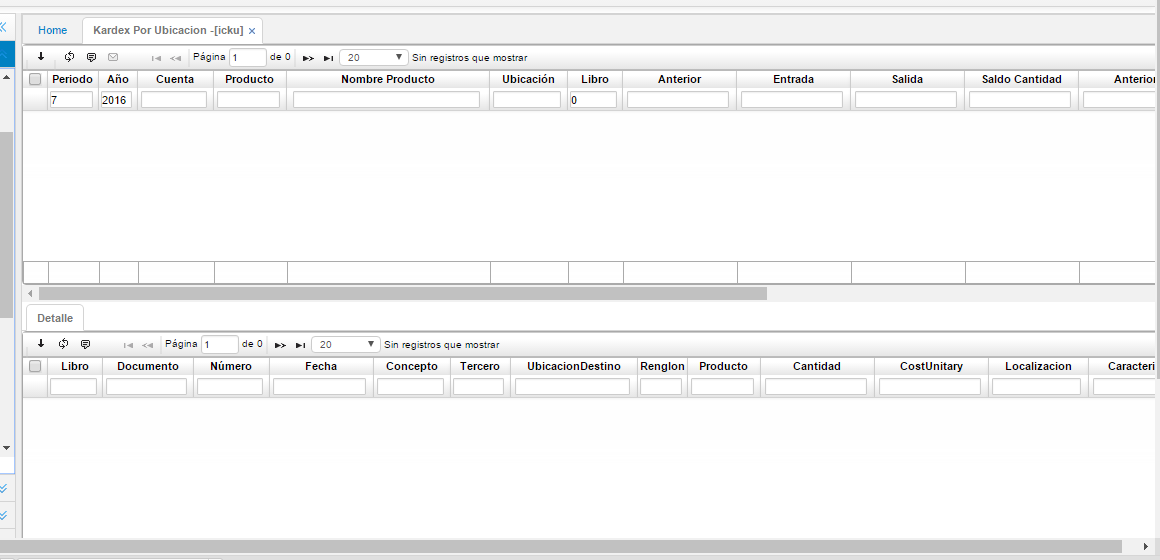
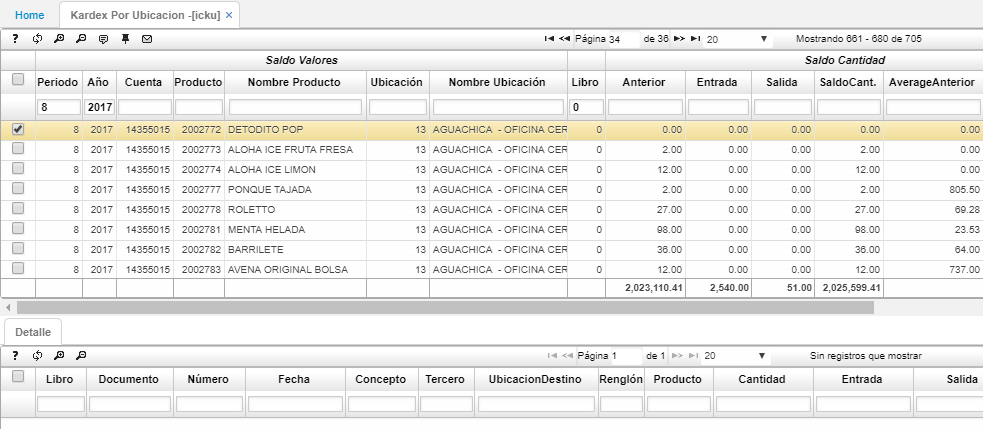
icku

Changed region(s): [[0.0, 0.0, 1.0, 1.0], [0.6104, 0.3636, 0.6409, 0.4242], [0.3662, 0.3636, 0.3967, 0.4242]]

diff --git a/Operacion/scm/inventarios/icosto/icku.md b/Operacion/scm/inventarios/icosto/icku.md
@@ -7,7 +7,8 @@ editable: si
 
 # Kardex por Ubicación - ICKU
 
-La aplicación **ICKU** muestra la ubicación de donde se está realizando el kardex y el estado, esto permite tener un control de las ubicaciones y el estado de ellas.  
+La aplicación **ICKU** muestra la ubicación de donde se está realizando el kardex y el estado, esto permite tener un control de las ubicaciones y el estado de ellas. Igualmente, cuenta con subtotales en las columnas que sumen inventario de productos y afecten la cantidad de los mismos.  
+
 
 ![](icku1.png)
 
